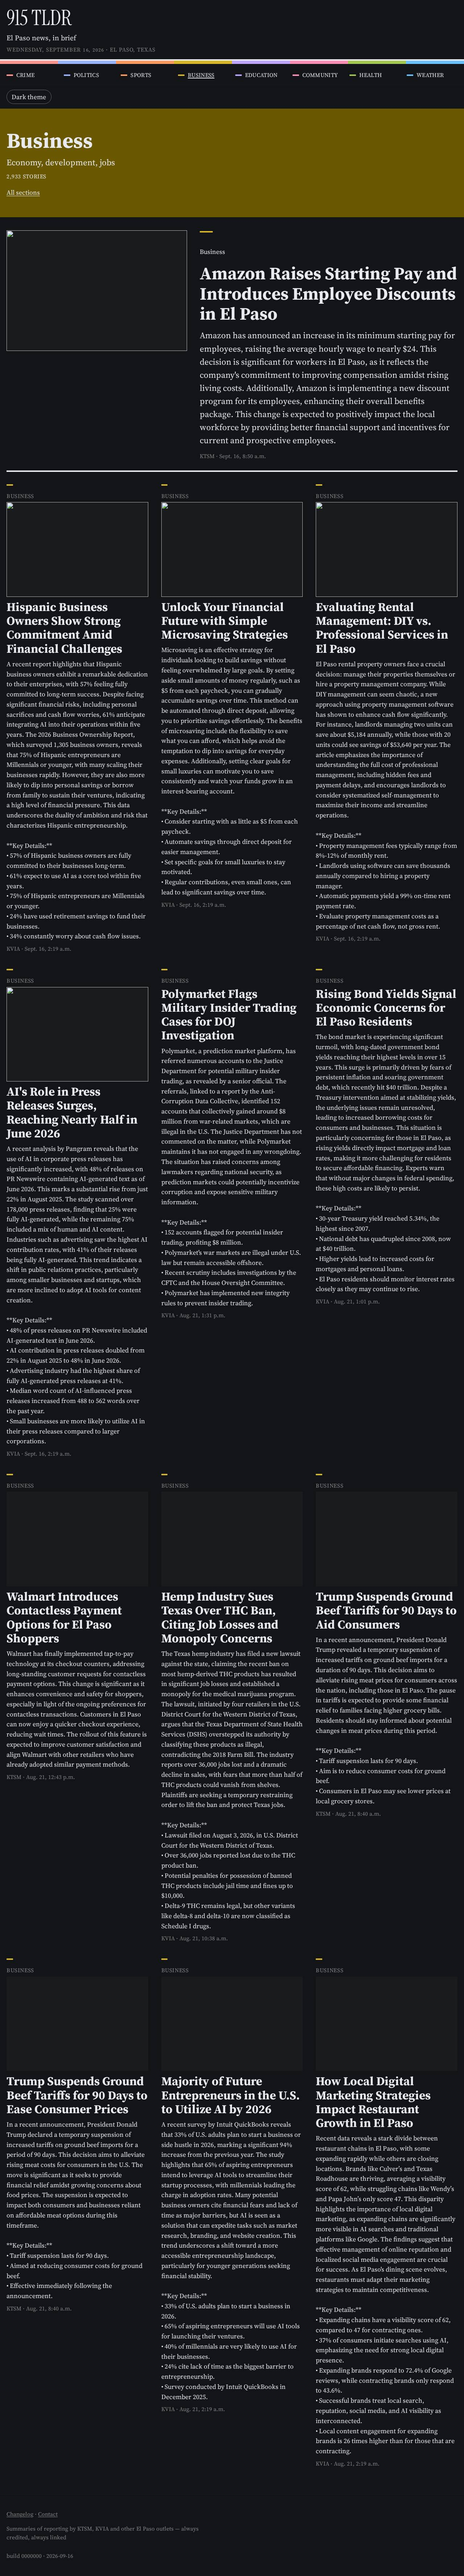
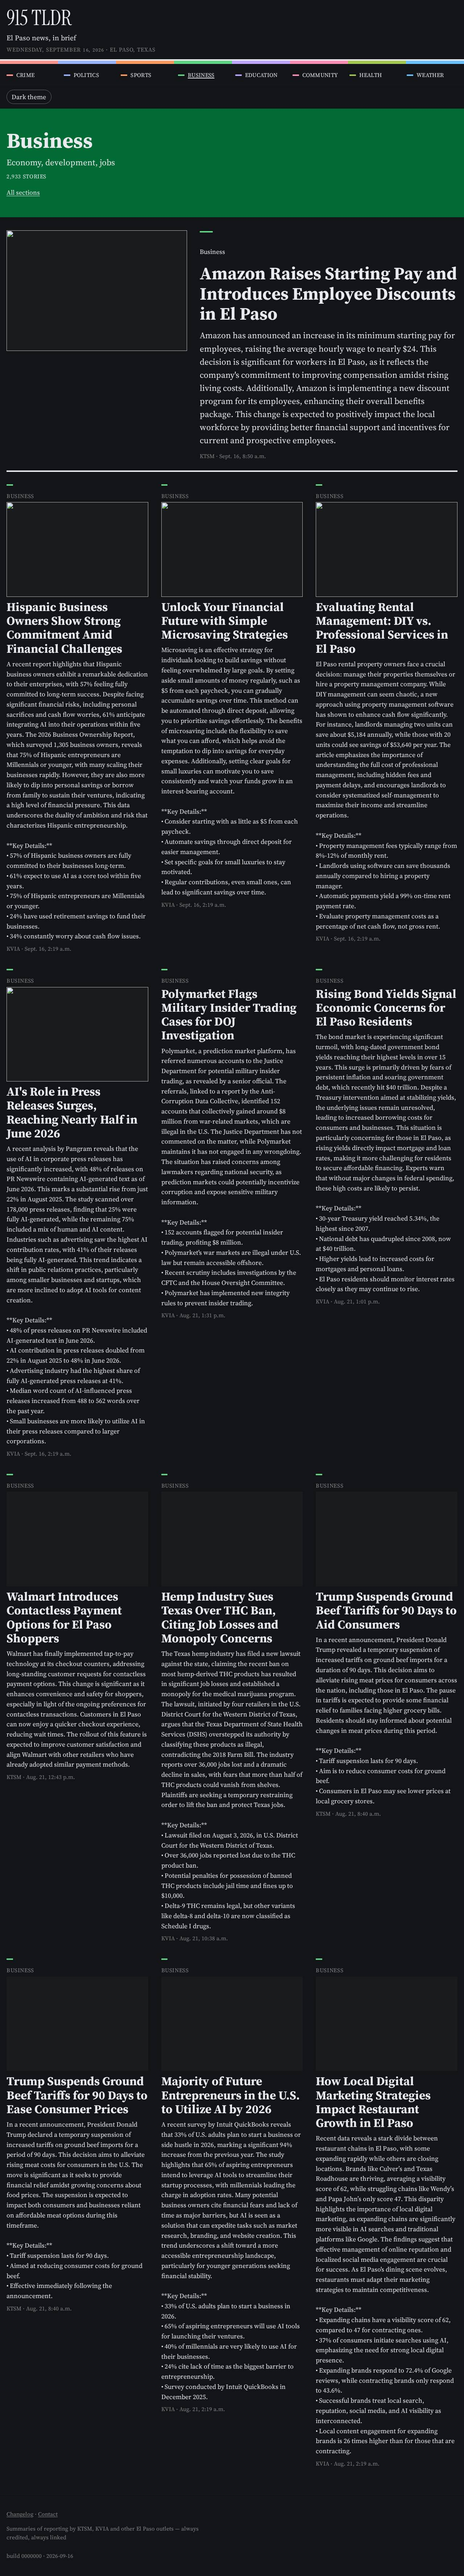
feat(01-16): re-sample Business hue from a real Juárez neon sign, outside the brown-reading band (Task 1)
- Replaces the marigold photo-sources.json record (owner round-1 decision
  D-GAP-C, 2026-09-17: "business and sports both read as brown. sports is
  more redish, thats ok") with a genuine saturated storefront/neon-sign
  photo: the green-cyan neon tube border of the real "Kentucky Club &
  Grill" bar sign (est. 1920) in downtown Ciudad Juárez.
- Re-sampled hue 152.1deg (keptPixels 538, circularStdDev 17.2) clears
  the sampler's own gates and lands outside the 40-100deg amber/olive
  band that reads as brown at block lightness.
- palette.json: business hueOffset set to 0 (no hand-picked nudge needed
  -- the photo-sampled hue alone clears the 0.05 minimum pairwise OKLab
  distance floor). Health's retained +4 offset reason rewritten to
  explain it now stands alone, no longer paired with business's former
  marigold hue.
- style.css: only the four business tokens changed (--hue-business,
  --cat-business-vivid-light/-block/-vivid-dark); all seven other
  categories' --hue-* values are byte-identical.
- pnpm run check:contrast: Overall PASS; minimum pairwise OKLab distance
  still >=0.05 at all three stops (business/health closest at block,
  0.0559); business-vs-sports and business-vs-education both clear
  0.05 with wide margin (0.19-0.29) at every stop.
- pnpm run verify:phase-1 --pages=category --criteria=1,2: PASS in both
  Chromium and WebKit; category evidence screenshots regenerated.

Changed region(s): [[0.0, 0.0312, 1.0, 0.0935]]

diff --git a/design/mockups/style.css b/design/mockups/style.css
@@ -261,10 +261,10 @@
   --cat-sports-vivid-dark: oklch(0.780 0.141 49.4);
   --cat-sports: var(--cat-sports-vivid-light);
 
-  --hue-business: 94.5;
-  --cat-business-vivid-light: oklch(0.600 0.123 94.5);
-  --cat-business-block: oklch(0.460 0.094 94.5);
-  --cat-business-vivid-dark: oklch(0.780 0.150 94.5);
+  --hue-business: 152.1;
+  --cat-business-vivid-light: oklch(0.600 0.150 152.1);
+  --cat-business-block: oklch(0.460 0.120 152.1);
+  --cat-business-vivid-dark: oklch(0.780 0.150 152.1);
   --cat-business: var(--cat-business-vivid-light);
 
   --hue-education: 295.9;

diff --git a/design/evidence/palette.md b/design/evidence/palette.md
@@ -1,6 +1,6 @@
 # Palette evidence (D-02, D-03, C-01)
 
-Generated from `design/palette/photo-sources.json`, `design/palette/hue-sources.json` and `design/palette/palette.json` by `npm run palette:build` — re-run after any hue, offset or stop change.
+Generated from `design/palette/photo-sources.json`, `design/palette/hue-sources.json` and `design/palette/palette.json` by `pnpm run palette:build` — re-run after any hue, offset or stop change.
 
 ## Per-category values
 
@@ -15,18 +15,18 @@ Generated from `design/palette/photo-sources.json`, `design/palette/hue-sources.
 | Sports | a saturated storefront or neon sign in El Paso or Ciudad Juárez (orange for sports) | [link](https://commons.wikimedia.org/wiki/File:Painting_mural_in_El_Paso_2022_12.jpg) | CC BY-SA 4.0 | 43.4° | +6° | See crime's hueOffsetReason -- this is the paired adjustment separating sports' sampled orange from crime's sampled red. | vivid-light | 0.150 | 0.150 | #c55f19 |
 | Sports | a saturated storefront or neon sign in El Paso or Ciudad Juárez (orange for sports) | [link](https://commons.wikimedia.org/wiki/File:Painting_mural_in_El_Paso_2022_12.jpg) | CC BY-SA 4.0 | 43.4° | +6° | See crime's hueOffsetReason -- this is the paired adjustment separating sports' sampled orange from crime's sampled red. | block | 0.150 | 0.122 | #8c3e01 |
 | Sports | a saturated storefront or neon sign in El Paso or Ciudad Juárez (orange for sports) | [link](https://commons.wikimedia.org/wiki/File:Painting_mural_in_El_Paso_2022_12.jpg) | CC BY-SA 4.0 | 43.4° | +6° | See crime's hueOffsetReason -- this is the paired adjustment separating sports' sampled orange from crime's sampled red. | vivid-dark | 0.150 | 0.141 | #ff9a61 |
-| Business | marigold (cempasúchil, as used for Día de Muertos in the region) | [link](https://commons.wikimedia.org/wiki/File:Tagetes_erecta_26122014_(2).jpg) | CC BY-SA 3.0 | 98.5° | -4° | Sampled marigold gold (98.5deg) sits only 22.2deg from health's sampled creosote green (120.7deg). At the block stop specifically (where business's gamut-clamped chroma is inherently low, ~0.094 regardless of requested chroma) this produced a minimum pairwise OKLab distance as low as 0.038. Business is pushed toward yellow, health toward green, splitting the difference within the +-8deg allowance. | vivid-light | 0.150 | 0.123 | #987e00 |
-| Business | marigold (cempasúchil, as used for Día de Muertos in the region) | [link](https://commons.wikimedia.org/wiki/File:Tagetes_erecta_26122014_(2).jpg) | CC BY-SA 3.0 | 98.5° | -4° | Sampled marigold gold (98.5deg) sits only 22.2deg from health's sampled creosote green (120.7deg). At the block stop specifically (where business's gamut-clamped chroma is inherently low, ~0.094 regardless of requested chroma) this produced a minimum pairwise OKLab distance as low as 0.038. Business is pushed toward yellow, health toward green, splitting the difference within the +-8deg allowance. | block | 0.150 | 0.094 | #695701 |
-| Business | marigold (cempasúchil, as used for Día de Muertos in the region) | [link](https://commons.wikimedia.org/wiki/File:Tagetes_erecta_26122014_(2).jpg) | CC BY-SA 3.0 | 98.5° | -4° | Sampled marigold gold (98.5deg) sits only 22.2deg from health's sampled creosote green (120.7deg). At the block stop specifically (where business's gamut-clamped chroma is inherently low, ~0.094 regardless of requested chroma) this produced a minimum pairwise OKLab distance as low as 0.038. Business is pushed toward yellow, health toward green, splitting the difference within the +-8deg allowance. | vivid-dark | 0.150 | 0.150 | #d6b528 |
+| Business | a saturated turquoise or teal painted storefront, wall or mural in El Paso or Ciudad Juárez | [link](https://commons.wikimedia.org/wiki/File:Bar_Kentucky_02.jpg) | CC BY-SA 4.0 | 152.1° | 0° | — | vivid-light | 0.150 | 0.150 | #199951 |
+| Business | a saturated turquoise or teal painted storefront, wall or mural in El Paso or Ciudad Juárez | [link](https://commons.wikimedia.org/wiki/File:Bar_Kentucky_02.jpg) | CC BY-SA 4.0 | 152.1° | 0° | — | block | 0.150 | 0.120 | #026a34 |
+| Business | a saturated turquoise or teal painted storefront, wall or mural in El Paso or Ciudad Juárez | [link](https://commons.wikimedia.org/wiki/File:Bar_Kentucky_02.jpg) | CC BY-SA 4.0 | 152.1° | 0° | — | vivid-dark | 0.150 | 0.150 | #62d287 |
 | Education | a violet desert sunset | [link](https://commons.wikimedia.org/wiki/File:Desert_Sunset_in_Saguaro4.jpg) | CC BY 2.0 | 295.9° | 0° | — | vivid-light | 0.150 | 0.150 | #896acf |
 | Education | a violet desert sunset | [link](https://commons.wikimedia.org/wiki/File:Desert_Sunset_in_Saguaro4.jpg) | CC BY 2.0 | 295.9° | 0° | — | block | 0.150 | 0.150 | #6140a1 |
 | Education | a violet desert sunset | [link](https://commons.wikimedia.org/wiki/File:Desert_Sunset_in_Saguaro4.jpg) | CC BY 2.0 | 295.9° | 0° | — | vivid-dark | 0.150 | 0.126 | #bea6ff |
 | Community | a saturated storefront or neon sign in El Paso or Ciudad Juárez (magenta or pink for community) | [link](https://commons.wikimedia.org/wiki/File:2010_Ciudad_Juarez_Mexico_5161988454.jpg) | CC BY 2.0 | 359.9° | 0° | — | vivid-light | 0.150 | 0.150 | #c5547d |
 | Community | a saturated storefront or neon sign in El Paso or Ciudad Juárez (magenta or pink for community) | [link](https://commons.wikimedia.org/wiki/File:2010_Ciudad_Juarez_Mexico_5161988454.jpg) | CC BY 2.0 | 359.9° | 0° | — | block | 0.150 | 0.150 | #952755 |
 | Community | a saturated storefront or neon sign in El Paso or Ciudad Juárez (magenta or pink for community) | [link](https://commons.wikimedia.org/wiki/File:2010_Ciudad_Juarez_Mexico_5161988454.jpg) | CC BY 2.0 | 359.9° | 0° | — | vivid-dark | 0.150 | 0.140 | #ff8fb4 |
-| Health | sotol or creosote bush | [link](https://commons.wikimedia.org/wiki/File:Creosote_bush,_Larrea_tridentata_(15205639513).jpg) | CC BY-SA 2.0 | 120.7° | +4° | See business's hueOffsetReason -- this is the paired adjustment separating health's sampled green from business's sampled gold. | vivid-light | 0.150 | 0.150 | #6c8e01 |
-| Health | sotol or creosote bush | [link](https://commons.wikimedia.org/wiki/File:Creosote_bush,_Larrea_tridentata_(15205639513).jpg) | CC BY-SA 2.0 | 120.7° | +4° | See business's hueOffsetReason -- this is the paired adjustment separating health's sampled green from business's sampled gold. | block | 0.150 | 0.115 | #4a6200 |
-| Health | sotol or creosote bush | [link](https://commons.wikimedia.org/wiki/File:Creosote_bush,_Larrea_tridentata_(15205639513).jpg) | CC BY-SA 2.0 | 120.7° | +4° | See business's hueOffsetReason -- this is the paired adjustment separating health's sampled green from business's sampled gold. | vivid-dark | 0.150 | 0.150 | #a2c753 |
+| Health | sotol or creosote bush | [link](https://commons.wikimedia.org/wiki/File:Creosote_bush,_Larrea_tridentata_(15205639513).jpg) | CC BY-SA 2.0 | 120.7° | +4° | Retained after the Business re-sample (D-GAP-C, 2026-09-17) so the owner-reviewed Health colour is unchanged; originally paired with Business's former marigold hue. | vivid-light | 0.150 | 0.150 | #6c8e01 |
+| Health | sotol or creosote bush | [link](https://commons.wikimedia.org/wiki/File:Creosote_bush,_Larrea_tridentata_(15205639513).jpg) | CC BY-SA 2.0 | 120.7° | +4° | Retained after the Business re-sample (D-GAP-C, 2026-09-17) so the owner-reviewed Health colour is unchanged; originally paired with Business's former marigold hue. | block | 0.150 | 0.115 | #4a6200 |
+| Health | sotol or creosote bush | [link](https://commons.wikimedia.org/wiki/File:Creosote_bush,_Larrea_tridentata_(15205639513).jpg) | CC BY-SA 2.0 | 120.7° | +4° | Retained after the Business re-sample (D-GAP-C, 2026-09-17) so the owner-reviewed Health colour is unchanged; originally paired with Business's former marigold hue. | vivid-dark | 0.150 | 0.150 | #a2c753 |
 | Weather | a hard turquoise midday sky over El Paso | [link](https://commons.wikimedia.org/wiki/File:Painting_mural_in_El_Paso_2022.jpg) | CC BY-SA 4.0 | 246.5° | -4° | See politics's hueOffsetReason -- this is the paired adjustment separating weather's sampled sky blue from politics's sampled indigo-blue. | vivid-light | 0.150 | 0.143 | #0388ce |
 | Weather | a hard turquoise midday sky over El Paso | [link](https://commons.wikimedia.org/wiki/File:Painting_mural_in_El_Paso_2022.jpg) | CC BY-SA 4.0 | 246.5° | -4° | See politics's hueOffsetReason -- this is the paired adjustment separating weather's sampled sky blue from politics's sampled indigo-blue. | block | 0.150 | 0.110 | #005d90 |
 | Weather | a hard turquoise midday sky over El Paso | [link](https://commons.wikimedia.org/wiki/File:Painting_mural_in_El_Paso_2022.jpg) | CC BY-SA 4.0 | 246.5° | -4° | See politics's hueOffsetReason -- this is the paired adjustment separating weather's sampled sky blue from politics's sampled indigo-blue. | vivid-dark | 0.150 | 0.122 | #6bc0ff |
@@ -38,7 +38,7 @@ Generated from `design/palette/photo-sources.json`, `design/palette/hue-sources.
 | Stop | Minimum distance | Closest pair | Verdict (>= 0.05) |
 |---|---|---|---|
 | vivid-light | 0.0642 | crime / sports | PASS |
-| block | 0.0581 | business / health | PASS |
+| block | 0.0559 | business / health | PASS |
 | vivid-dark | 0.0554 | politics / weather | PASS |
 
 ## C-01 review
@@ -48,6 +48,5 @@ Block stops whose final hue lies in 40-100° turn dark amber or olive at block l
 | Category | Final hue | Block hex | Note |
 |---|---|---|---|
 | Sports | 49.4° | #8c3e01 | dark amber or olive at block lightness — may read as brown; owner to judge at approval |
-| Business | 94.5° | #695701 | dark amber or olive at block lightness — may read as brown; owner to judge at approval |
 
 **Overall distance check: PASS**

diff --git a/changelog/2026-09-17-1512_01-16-re-sample-business-hue-from-a-real-ju-rez-ne.md b/changelog/2026-09-17-1512_01-16-re-sample-business-hue-from-a-real-ju-rez-ne.md
@@ -1,0 +1,102 @@
+# 2026-09-17 - Business's Palette Hue Re-Sampled From a Real Juárez Neon Sign
+
+**Keywords:** [FEATURE] [BUG_FIX]
+
+**Commit:** find with `git log --diff-filter=A -1 --format=%H -- changelog/2026-09-17-1512_01-16-re-sample-business-hue-from-a-real-ju-rez-ne.md`
+
+## What Changed
+
+- `design/palette/photo-sources.json`: replaced Business's marigold record
+  (rejected by the owner in round-1 review, D-GAP-C, 2026-09-17: "business
+  and sports both read as brown. sports is more redish, thats ok") with a
+  new photo-first source — the green-cyan neon tube border of the real
+  "Kentucky Club & Grill" bar sign (operating since 1920) in downtown
+  Ciudad Juárez, Mexico. CC BY-SA 4.0, photographed by Wotancito
+  (Wikimedia Commons), daylight shot (no artificial-light colour-cast
+  risk). All seven other category entries are byte-identical.
+- `design/palette/hue-sources.json`: re-ran `pnpm run palette:sample`.
+  Business's new sampled hue is 152.1deg (keptPixels 538, circularStdDev
+  17.2deg — both comfortably inside the sampler's own gates of >=500 and
+  <=25). This lands outside the 40-100deg amber/olive band that turns
+  brown at the block stop's lightness, which is the whole point: the
+  marigold's failure was never about which yellow-orange photo supplied
+  the hue, it was that any hue in that band reads as brown once forced
+  through the shared block lightness (L 0.46).
+- `design/palette/palette.json`: Business's `hueOffset` set to `0` — the
+  photo-sampled hue alone clears the 0.05 minimum pairwise OKLab distance
+  floor with no hand-picked nudge needed. Health's `hueOffset` stays `+4`
+  (unchanged, so the owner-reviewed Health colour does not move), but its
+  `hueOffsetReason` text is rewritten: it no longer references a paired
+  adjustment against Business's old marigold hue, since nothing pairs
+  with it anymore.
+- `design/mockups/style.css`: only the four Business tokens changed
+  (`--hue-business`, `--cat-business-vivid-light`, `--cat-business-block`,
+  `--cat-business-vivid-dark`, now all resolving from 152.1deg). Every
+  other category's `--hue-*` and `--cat-*` value is byte-identical, and
+  `pnpm run palette:build` run twice in a row produces byte-identical
+  output both times.
+- `design/evidence/palette.md` / `contrast.md`: regenerated. The C-01
+  review table's Business row is gone (only Sports remains, already
+  accepted by the owner). Minimum pairwise OKLab distance stays >=0.05
+  at all three stops — Business/Health is the new closest pair at the
+  block stop (0.0559), with Business-vs-Sports and Business-vs-Education
+  both well clear (0.19-0.29) at every stop.
+- `design/evidence/pages/category-*.jpg`: regenerated via
+  `pnpm run verify:phase-1 --pages=category --criteria=1,2` so the
+  category masthead evidence reflects the new Business colour.
+
+## Why
+
+Round-1 owner review flagged both Sports and Business as reading brown;
+the owner accepted Sports as-is ("sports is more redish, thats ok") but
+sent Business back for a new photo and re-sample (D-GAP-C). The root
+cause, established in 01-03's evidence, is that any final hue roughly
+40-100deg drops to dark amber/olive at this palette's shared block
+lightness — so a different yellow-orange photo would have failed the
+same way. The fix had to change register entirely, landing outside that
+band while staying on-subject (a real, licence-recorded, saturated
+storefront/neon-sign photo from El Paso or Ciudad Juárez, matching C-01's
+own named register already used for Sports, Weather and Community).
+
+## Issues Encountered
+
+Sourcing took several rejected candidates before landing on the Kentucky
+Club neon sign: night-lit mural photographs (from the same photo set
+already used for Sports/Weather) measured too low in chroma once
+downscaled — the visually "blue" paint under artificial worksite lighting
+fell under the sampler's 0.08 chroma floor and returned zero kept pixels.
+A daylight mural's shaded agave plant had the same problem. A wider crop
+of the neon sign itself pulled in window-glass reflections and pushed
+circularStdDev over 60deg. The final region is a tight, single vertical
+run of clean neon tube glass, chosen only after confirming it clears both
+sampler gates with real margin.
+
+## Dependencies
+
+No dependencies added.
+
+## Testing Notes
+
+- What was tested: `pnpm run palette:sample` (Business's diff isolated to
+  its own record; all seven other hue-sources entries byte-identical);
+  `pnpm run palette:build` run twice (byte-identical style.css and
+  palette.md both times); `pnpm run check:contrast` (Overall PASS, all
+  three stops >=0.05 minimum pairwise distance); `pnpm run verify:phase-1
+  --pages=category --criteria=1,2` (PASS, Chromium and WebKit).
+- What wasn't tested: the human C-01 aesthetic judgement on whether the
+  new Business colour reads correctly — that is Task 2's swatch-evidence
+  step and the phase's end-of-phase human check.
+
+## Next Steps
+
+- [ ] Task 2: swatch evidence regeneration, content.spec.ts nav-stripe
+      check, and the WINDOWS.md ledger update (entry 3 → fixed)
+- [ ] Plan-level metadata commit (SUMMARY, STATE, ROADMAP)
+
+---
+
+**Branch:** feature/phase-01
+**Issue:** N/A
+**Impact:** MEDIUM - changes one category's colour tokens and regenerates
+the palette/contrast evidence; no other category, threshold, or gate
+moved.

diff --git a/design/evidence/contrast.md b/design/evidence/contrast.md
@@ -21,8 +21,8 @@ Lightness is held constant across each ramp (D-02/D-03); every hue is checked an
 
 | Ramp | Pairing | Threshold | Worst hue | Ratio | Verdict |
 |---|---|---|---|---|---|
-| vivid-light | vs light paper | 3:1 | health | 3.63:1 | PASS |
-| block | vs --block-ink (worst theme: dark) | 4.5:1 | health | 5.73:1 | PASS |
+| vivid-light | vs light paper | 3:1 | business | 3.53:1 | PASS |
+| block | vs --block-ink (worst theme: dark) | 4.5:1 | business | 5.58:1 | PASS |
 | vivid-dark | vs dark paper | 3:1 | community | 8.65:1 | PASS |
 
 ## Focus
@@ -31,7 +31,7 @@ Lightness is held constant across each ramp (D-02/D-03); every hue is checked an
 |---|---|---|---|---|
 | light | focus-ring / paper | 3:1 | 17.33:1 | PASS |
 | dark | focus-ring / paper | 3:1 | 15.31:1 | PASS |
-| dark | focus-ring-on-block vs block (worst: health) | 3:1 | 5.73:1 | PASS |
+| dark | focus-ring-on-block vs block (worst: business) | 3:1 | 5.58:1 | PASS |
 
 ## Distinctness
 
@@ -40,7 +40,7 @@ Minimum pairwise OKLab distance per stop (>= 0.05 required).
 | Closest pair | Stop | Distance | Verdict |
 |---|---|---|---|
 | crime / sports | vivid-light | 0.0642 | PASS |
-| business / health | block | 0.0581 | PASS |
+| business / health | block | 0.0559 | PASS |
 | politics / weather | vivid-dark | 0.0554 | PASS |
 
 ## D-02 structure
@@ -67,6 +67,5 @@ All stop literals match their shared stop L/C and per-category hue.
 ## Warnings
 
 - C-01 review: sports block stop hue 49.4deg falls in the 40-100deg amber/olive band — may read as brown; owner to judge
-- C-01 review: business block stop hue 94.5deg falls in the 40-100deg amber/olive band — may read as brown; owner to judge
 
 **Overall: PASS**

diff --git a/changelog/README.md b/changelog/README.md
@@ -10,6 +10,7 @@ Entries are named `YYYY-MM-DD-HHMM_slug.md` and grouped by month, newest first.
 
 | Date | Entry | Keywords |
 |------|-------|----------|
+| 2026-09-17 | [Business's Palette Hue Re-Sampled From a Real Juárez Neon Sign](2026-09-17-1512_01-16-re-sample-business-hue-from-a-real-ju-rez-ne.md) | `[FEATURE]` `[BUG_FIX]` |
 | 2026-09-17 | [Phase 1 Plan 15 Complete: D-15/I18N-07 Closed, Spanish Calibration Made More Robust](2026-09-17-1443_01-15-complete-plan-summary-state-roadmap-windows-.md) | `[DOCUMENTATION]` `[PLANNING]` |
 | 2026-09-17 | [Every Spanish Stress String Recalibrated; a Real Small-Size Measurement Gap Fixed](2026-09-17-1440_01-15-recalibrate-every-spanish-component-widen-hi.md) | `[FEATURE]` `[TESTING]` `[BUG_FIX]` |
 | 2026-09-17 | [One Headline Recalibrated in the New Type System, Proven in Both Engines](2026-09-17-1431_01-15-recalibrate-one-headline-in-the-post-01-14-t.md) | `[FEATURE]` `[TESTING]` `[BUG_FIX]` |
